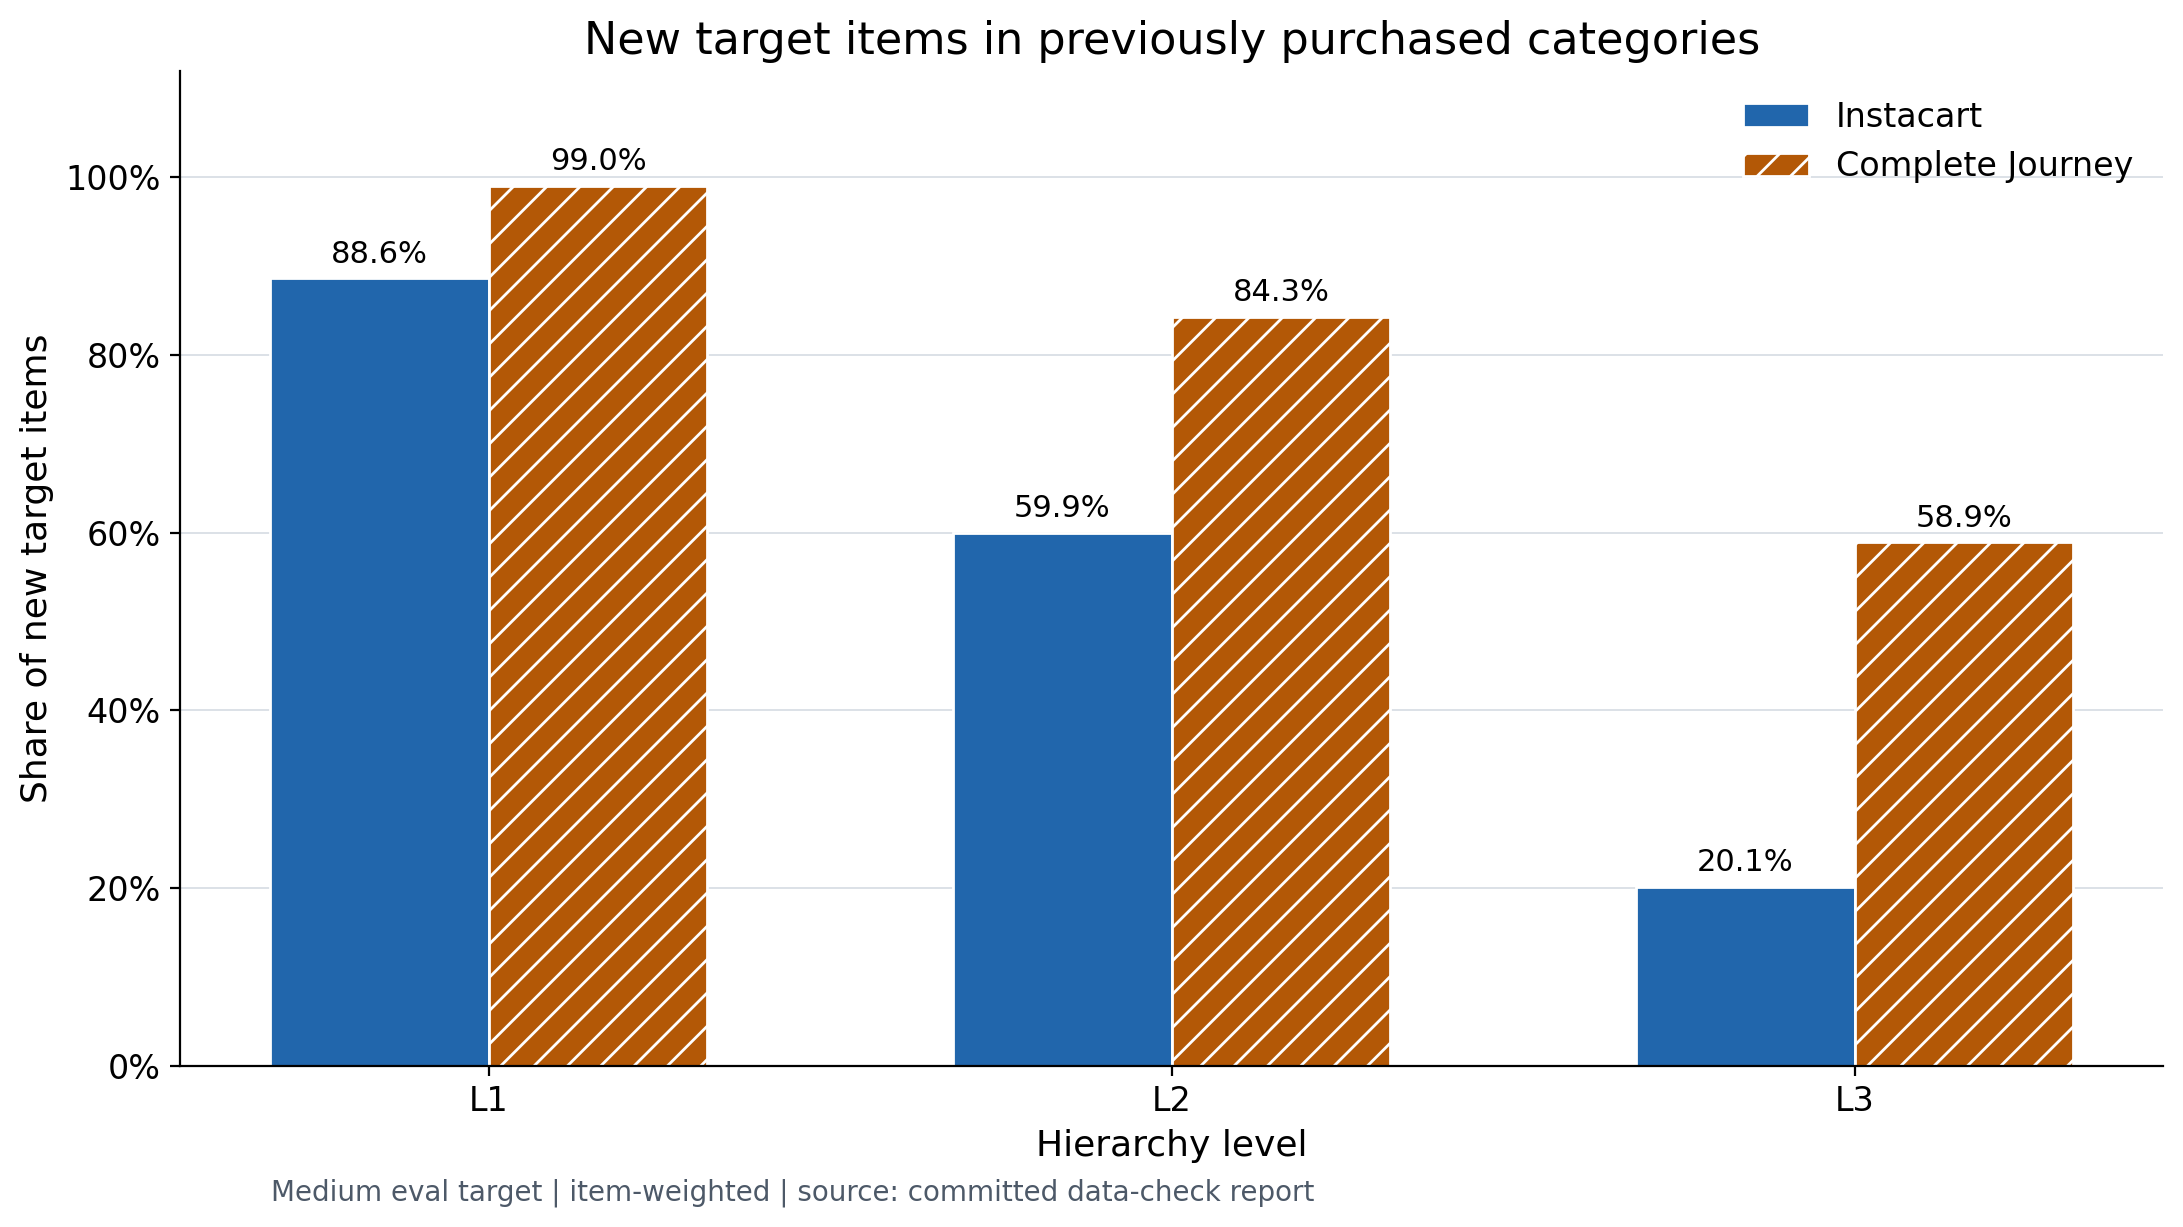
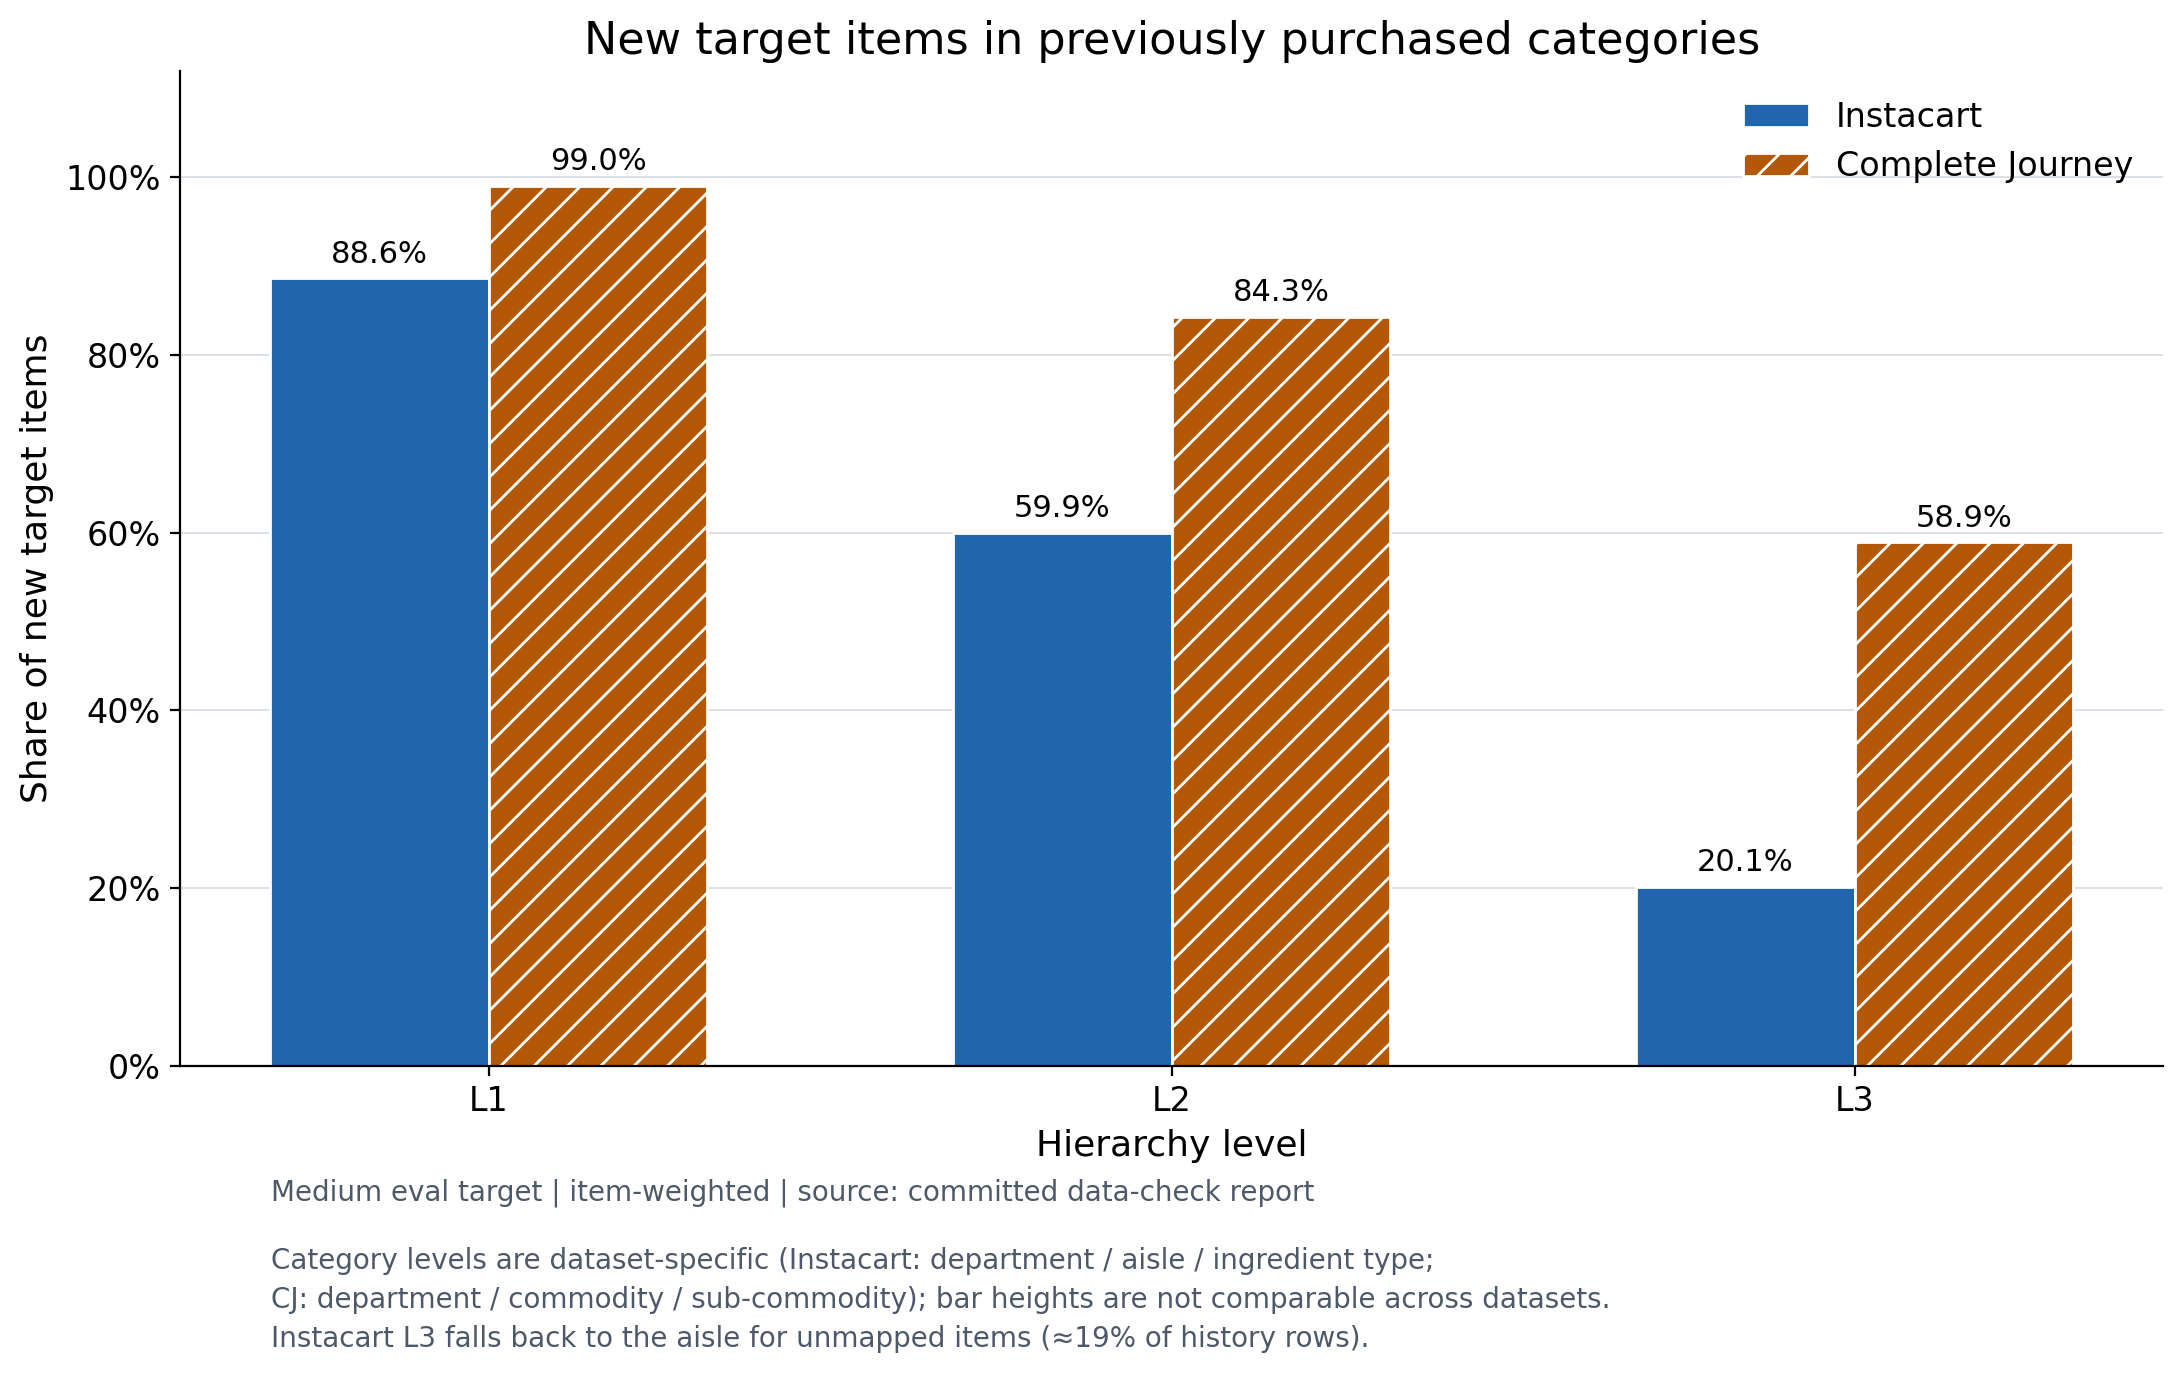
docs(eda): clarify category-level comparability and Instacart L3 fallback in figure notes

diff --git a/scripts/make_eda.py b/scripts/make_eda.py
@@ -281,7 +281,7 @@ def style_axis(ax) -> None:
     ax.set_axisbelow(True)
 
 
-def figures() -> None:
+def figures(check: dict) -> None:
     """Render all chart values directly from their companion CSV files."""
     plt.rcParams.update({"font.family": "DejaVu Sans", "font.size": 12,
                          "axes.titlesize": 16, "axes.labelsize": 13,
@@ -319,6 +319,7 @@ def figures() -> None:
     axes[0].set_ylabel("Mean repeat-item share in target basket")
     fig.suptitle("Repeat-item share by history length", fontsize=17)
     fig.text(0.10, -0.03, "Medium eval target | distinct items | equal weight per user | n = users", fontsize=10, color="#4D5968")
+    fig.text(0.10, -0.075, "Descriptive; history bins differ between datasets.", fontsize=10, color="#4D5968")
     fig.savefig(OUTPUT / "fig_repeat_share_by_history.png", dpi=200, bbox_inches="tight")
     plt.close(fig)
 
@@ -339,6 +340,13 @@ def figures() -> None:
     style_axis(ax)
     ax.legend(loc="upper right", frameon=False)
     fig.text(0.12, -0.025, "Medium eval target | item-weighted | source: committed data-check report", fontsize=10, color="#4D5968")
+    fallback_pct = round(100 * (1 - check["instacart"]["eval"]["history_rows_l3_mapped"]))
+    notes = (
+        "Category levels are dataset-specific (Instacart: department / aisle / ingredient type;\n"
+        "CJ: department / commodity / sub-commodity); bar heights are not comparable across datasets.\n"
+        f"Instacart L3 falls back to the aisle for unmapped items (≈{fallback_pct}% of history rows)."
+    )
+    fig.text(0.12, -0.065, notes, fontsize=10, color="#4D5968", va="top", linespacing=1.5)
     fig.savefig(OUTPUT / "fig_new_item_level.png", dpi=200, bbox_inches="tight")
     plt.close(fig)
 
@@ -367,6 +375,8 @@ def summary_markdown(datasets, repeats, levels, preprocessing, quality, check):
              "- Instacart: L1=department(coarse_category), L2=aisle(fine_category), L3=ingredient_type(aisle fallback 포함). CJ: L1=DEPARTMENT, L2=commodity(coarse_category 별칭), L3=fine_category.",
              "- holdout 폴더와 원시 ZIP은 열지 않았다. holdout 추출 수치는 커밋된 data/SOURCE.md 기록만 인용했다.", "",
              "## 표 1: 관측 history 규모", "", markdown_table(datasets), ""]
+    cj_p90 = datasets.loc[datasets["dataset"].eq("complete_journey"), "history_baskets_p90"].iloc[0]
+    lines += [f"PPT 표시값: CJ p90 = {cj_p90:.0f}개 바스켓(정수 반올림). 표와 CSV의 원래 계산값 {cj_p90:g}는 유지한다.", ""]
     for row in datasets.itertuples():
         label = DATASETS[row.dataset]["label"]
         lines.append(f"- {label}: 사용자 {row.users:,}명, 바스켓 {row.baskets:,}개, 상품 {row.items:,}개. 사용자당 history 바스켓 중앙값 {row.history_baskets_median:g}개(p10={row.history_baskets_p10:g}, p90={row.history_baskets_p90:g}), 바스켓별 서로 다른 상품 수 중앙값 {row.basket_size_median:g}개.")
@@ -378,6 +388,11 @@ def summary_markdown(datasets, repeats, levels, preprocessing, quality, check):
         first, last = part.iloc[0], part.iloc[-1]
         lines.append(f"- {spec['label']}: {first['history_bin']} 구간의 사용자 평균 재구매 비중은 {first['mean_repeat_share']:.2%}(n={first['users']:,}), {last['history_bin']} 구간은 {last['mean_repeat_share']:.2%}(n={last['users']:,})다.")
     lines += ["", "## 그림 3: 신규 상품의 기존 범주 포함 비율", "", markdown_table(levels[["dataset", "level", "new_target_items", "in_seen_category_items", "share"]]), ""]
+    fallback_pct = round(100 * (1 - check["instacart"]["eval"]["history_rows_l3_mapped"]))
+    lines += [
+        "- 범주 수준은 데이터셋마다 다르다. Instacart는 department / aisle / ingredient type, CJ는 department / commodity / sub-commodity이므로 데이터셋 간 막대 높이를 직접 비교할 수 없다.",
+        f"- Instacart L3는 매핑되지 않은 상품에 aisle을 대신 사용한다. medium eval_history 행의 약 {fallback_pct}%가 이 fallback에 해당한다(커밋 medium.json의 1 − history_rows_l3_mapped를 정수 %로 반올림).", "",
+    ]
     for dataset, spec in DATASETS.items():
         part = levels.loc[levels["dataset"].eq(dataset)]
         values = ", ".join(f"{row.level} {row.share:.2%}" for row in part.itertuples())
@@ -442,7 +457,7 @@ def main() -> None:
     write_csv(repeat_frame, "fig_repeat_share_by_history.csv")
     write_csv(level_frame, "fig_new_item_level.csv")
     write_csv(preprocessing, "table_preprocessing.csv")
-    figures()
+    figures(check)
     summary_markdown(description_frame, repeat_frame, level_frame, preprocessing, quality, check)
     print("Wrote 5 CSV files, 3 PNG figures, and eda_summary.md to reports/eda")
 

diff --git a/reports/eda/eda_summary.md b/reports/eda/eda_summary.md
@@ -18,6 +18,8 @@ medium의 Instacart·Complete Journey(CJ)를 기술한다. 데이터셋 규모·
 | instacart | 20000 | 313281 | 41250 | 21 | 134 | 3209 | 3 | 3 | 9 | 37 | 99 | 8 |
 | complete_journey | 2069 | 206682 | 82354 | 32 | 302 | 2323 | 4 | 25 | 76 | 197.2 | 1167 | 5 |
 
+PPT 표시값: CJ p90 = 197개 바스켓(정수 반올림). 표와 CSV의 원래 계산값 197.2는 유지한다.
+
 - Instacart: 사용자 20,000명, 바스켓 313,281개, 상품 41,250개. 사용자당 history 바스켓 중앙값 9개(p10=3, p90=37), 바스켓별 서로 다른 상품 수 중앙값 8개.
   전체 catalog는 49,688개 상품이며, 위 관측 상품 수와 범위가 다르다.
 - Complete Journey: 사용자 2,069명, 바스켓 206,682개, 상품 82,354개. 사용자당 history 바스켓 중앙값 76개(p10=25, p90=197.2), 바스켓별 서로 다른 상품 수 중앙값 5개.
@@ -52,6 +54,9 @@ medium의 Instacart·Complete Journey(CJ)를 기술한다. 데이터셋 규모·
 | complete_journey | L1 | 15076 | 14928 | 0.990183 |
 | complete_journey | L2 | 15076 | 12708 | 0.842929 |
 | complete_journey | L3 | 15076 | 8878 | 0.588883 |
+
+- 범주 수준은 데이터셋마다 다르다. Instacart는 department / aisle / ingredient type, CJ는 department / commodity / sub-commodity이므로 데이터셋 간 막대 높이를 직접 비교할 수 없다.
+- Instacart L3는 매핑되지 않은 상품에 aisle을 대신 사용한다. medium eval_history 행의 약 19%가 이 fallback에 해당한다(커밋 medium.json의 1 − history_rows_l3_mapped를 정수 %로 반올림).
 
 - Instacart: L1 88.61%, L2 59.95%, L3 20.10%. 분모는 해당 사용자의 history에 없던 신규 정답 상품 85,172개다.
 - Complete Journey: L1 99.02%, L2 84.29%, L3 58.89%. 분모는 해당 사용자의 history에 없던 신규 정답 상품 15,076개다.
